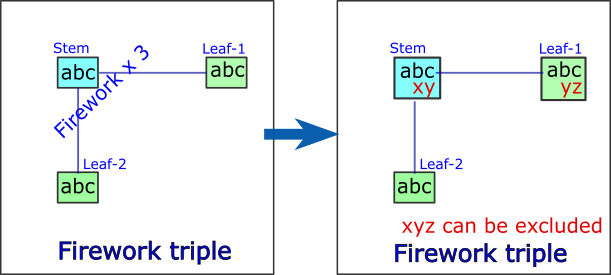
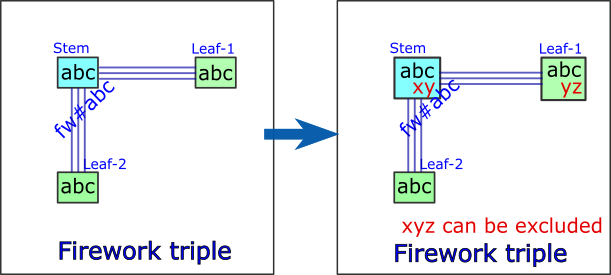
GNPX v5_0428

Changed region(s): [[0.0933, 0.1455, 0.4043, 0.64], [0.653, 0.2618, 0.9018, 0.6109]]

diff --git a/docs/page58.html b/docs/page58.html
@@ -97,29 +97,58 @@
 
 			<!-- ============================================================ -->
 				<H3 id="head_bg_Blue">Fireworks 解析アルゴリズム</H3>
+
+
 				<h4 id="head_bg_LightBlue">(1) Firework triple</h4>
 				<p>
 					<stong>Firework triple</stong>は、3つのfireworkが重なっている状態です(3DFirework,stemとLeaf-1,2が全てのFireworkで一致する)。<br>
 					このとき、stemとLeaf-1,2のセルは3数字で Locked であり、3数字以外の候補は除外できます。
 				</p>
 				<img src="images/img58/image58_20_Firework_triple.png" width="50%" alt="Firework triple"><br><br>
-
-
-				<h4 id="head_bg_LightBlue">(2) Firework triple</h4>
 				<p>
-					2つの firework が重なっている状態を 2DFirework と表記します(stemとLeafが全て一致する)。<br>
+					<img src="images/img58/image58_30_FW_triple.png" width="25%" style="float:left;  margin-right:8px;" alt="SubSetExclusion">
+					<strong>Firework_Triple<br></strong>
+						Stem : r7c3 #12459<br>
+						Leaf:r6c3 r7c4<br>
+					<p class="newLine">1.....5.82.........4..9.7.6..3..2....26.8.9..5....92......73....8....1.....9...42</p>
+				</p>
+
+
+				<h4 id="head_bg_LightBlue">(2) Firework Quadruple</h4>
+				<p>
+					2つの firework が重なっている状態を Fireworkx2 と表記します(stemとLeafが全て一致する)。<br>
 					<stong>Firework quadruple</stong>は、2組の 2DFirework の Leaf-1,2が重なっている状態です(2つのStemは位置が異なる）。<br>
 					これは、4セルに4数字が Locked となっています。従って、4セルの4数字以外の候補は除外できます。
 				</p>
 				<img src="images/img58/image58_21_Firework_quadruple.png" width="50%" alt="Firework_quadruple"><br><br>
+				<p>
+					<img src="images/img58/image58_31_FW_Quadruple.png" width="25%" style="float:left;  margin-right:8px;" alt="SubSetExclusion">
+					<strong>Firework_Quadruple<br></strong>
+						Stem : r5c1#17 r7c8#26<br>
+						Leaf : r5c8#12679  r7c1#12367<br>
+					<p class="newLine">1.....5.82.........4..9.7.6..3..2....26.8.9..5....92......73....8....1.....9...42</p>
+				</p>
+
 
 
 				<h4 id="head_bg_LightBlue">(3) Firework WWing</h4>
 				<p>
-					2DFirework と、2つのbivalue Cell(ALS)が次の図のように配置されているとします。<br>
+					Fireworkx2 と、2つのbivalue Cell(ALS)が次の図のように配置されているとします。<br>
 					この状態は Locked で、交差する位置にある数字要素（次図の"a")は除外できます。<br>
 				</p>
-				<img src="images/img58/image58_22_Firework_WWing.png" width="50%" alt="Firework_WWing"><br><br>
+				<img src="images/img58/image58_22_Firework_WWing.png" width="50%" alt="Firework_WWing"><br>
+				<p>
+					<img src="images/img58/image58_32_FW_WWing.png" width="25%" style="float:left;  margin-right:8px;" alt="SubSetExclusion">
+					<strong>Firework_WWing</strong><br>
+						Stem : r3c3#26<br>
+						Leaf : r3c5#346  r5c3#2679<br>
+						Assist : r4c5#26  r5c9#26<br>
+						Exclude : r5c5#26<br>
+					<p class="newLine">1..89..4.8..21...7...7.59813154.9..8.8.5..41...41.8395..1382.646.89..1...236.18.9</p>
+				</p>
+
+
+
 
 
 				<h4 id="head_bg_LightBlue">(4) Firework LWing</h4>
@@ -130,13 +159,21 @@
 				<img src="images/img58/image58_23_Firework_LWing.png" width="50%" alt="Firework_LWing"><br><br>
 
 
-				<h4 id="head_bg_LightBlue">(5) Firework ALP</h4>
+				<h4 id="head_bg_LightBlue">(5) Firework ALP-s</h4>
 				<p>
-					2DFirework と、1つのBivalueセルが次図のように配置されているとします。<br>
+					Fireworkx2 と、1つのBivalueセルが次図のように配置されているとします。<br>
 					この状態で、Stemセルから Firework の数字要素以外の数字（次図の"z")は除外できます。<br>
 				</p>
-				<img src="images/img58/image58_24_Firework_ALP.png" width="50%" alt="Firework_LWing"><br><br>
-
+				<img src="images/img58/image58_24_Firework_ALP-s.png" width="50%" alt="Firework_LWing"><br><br>
+				<p>
+					<img src="images/img58/image58_34_FW_ALP-s.png" width="25%" style="float:left;  margin-right:8px;" alt="SubSetExclusion">
+					<strong>Firework_ALP-s</strong><br>
+						Stem : r7c3#69<br>
+						Leaf : r5c3#34679 r7c5#16789<br>
+						Assist : r5c5#69<br>
+						Exclude : r7c3#69<br>
+					<p class="newLine">.9.....4.6...2...8...1.4.....2..758..8.5...1...584.3.....4.5...1...3...6.7.....9.</p>
+				</p>
 
 
 

diff --git a/docs/page57.html b/docs/page57.html
@@ -111,29 +111,26 @@
             <p>
                 <img src="images/img57/image57_Subset_20.png" width="30%" style="float:left;  margin-right:8px;" alt="SubSetExclusion">
                 <strong>SubsetExclusion<br></strong>
-				Stem: r7c36 #23457<br>
-				Leaf: Cell r7c8 #23<br>
-				&nbsp;&nbsp;&nbsp;&nbsp;&nbsp;&nbsp;&nbsp;&nbsp;Cell r7c4 #27<br>
-				<p class="newLine"></p>81..7.69.4.639851.5.9.2.4.87.8..9....9..3..8....8..9.41...6.8.9.8..4.765.67.8..4.</p>
+					Stem: r14c6 #1679<br>
+					Leaf: Cell r6c6 #17<br>
+					&nbsp;&nbsp;&nbsp;&nbsp;&nbsp;&nbsp;&nbsp;&nbsp;Cell r2c6 #19<br>
+				<p class="newLine"></p>3...4...8..8.6.7...7.382.5...7.3.8.51..8.5..9..5.9.6...2.954.8...4...5..5...1...2</p>
             </p>
 			<p>
                 <img src="images/img57/image57_Subset_21.png" width="30%" style="float:left;  margin-right:8px;" alt="SubSetExclusion">
 				<strong>SubsetExclusion_with_ALS</strong><br>
-				Stem: r3c2 r7c3 #23457<br>
-				Leaf: Cell r1c3 #23<br>
-				&nbsp;&nbsp;&nbsp;&nbsp;&nbsp;&nbsp;&nbsp;&nbsp;ALS r37c8 #237 RCC#27<br>
-				<p class="newLine"></p>81..7.69.4.639851.5.9.2.4.87.8..9....9..3..8....8..9.41...6.8.9.8..4.765.67.8..4.</p>
+					Stem: r1c7 r3c57 #3569<br>
+					Leaf: Cell r3c9 #56<br>
+					&nbsp;&nbsp;&nbsp;&nbsp;&nbsp;&nbsp;&nbsp;&nbsp;ALS r579c7 #3456 RCC#35<br>
+				<p class="newLine"></p>1.2.7...4..9...2...784.2.1.2.3.5.7..8..7.9..37.6.4.1...2.687.91..1...8..987.3...2</p>
             </p>
 			<p>
                 <img src="images/img57/image57_Subset_22.png" width="30%" style="float:left;  margin-right:8px;" alt="SubSetExclusion">
-				<strong>SubsetExclusion_with_ALS(overlap)</strong><br>
-					Stem: r4c45 r6c8 #1234567<br>
-					Leaf: Cell r6c5 #15<br>
-					&nbsp;&nbsp;&nbsp;&nbsp;&nbsp;&nbsp;&nbsp;&nbsp;Cell r4c7 #123<br>
-					&nbsp;&nbsp;&nbsp;&nbsp;&nbsp;&nbsp;&nbsp;&nbsp;Cell r4c9 #136<br>
-					&nbsp;&nbsp;&nbsp;&nbsp;&nbsp;&nbsp;&nbsp;&nbsp;Cell r4c8 #235<br>
-					&nbsp;&nbsp;&nbsp;&nbsp;&nbsp;&nbsp;&nbsp;&nbsp;ALS r4c79 r5c7 #1236 RCC#36<br>
-				<p class="newLine"></p>81..7.69.4.639851.5.9.2.4.87.8..9....9..3..8....8..9.41...6.8.9.8..4.765.67.8..4.</p>
+				<strong>em: r7c1 r9c3 #2457</strong><br>
+					Leaf: Cell r7c3 #45<br>
+					&nbsp;&nbsp;&nbsp;&nbsp;&nbsp;&nbsp;&nbsp;&nbsp;ALS r7c39 #245 RCC#24<br>
+					Overlap : r7c3<br>
+				<p class="newLine"></p>712.568.4..6...2.1.8.1.2.6.659.214..8..5.91.6..1.6.5...3.68791...8.1.6..16..9...8</p>
             </p>
 		</section>
 	</article>

diff --git a/docs/page2_v5.html b/docs/page2_v5.html
@@ -146,14 +146,35 @@
 						&nbsp;<a href="page56.html#FC_Null"> (ForceChain_Contradiction) ** ++</a> </td>
 					<td class="table_line"></td>
 				</tr>
+		
+				<tr>
+					<td class="table_line">&nbsp;Subset Exclusin</td>
+					<td class="table_line">
+						&nbsp;<a href="page57.html">Aligned Pair Exclusion</a> <br>
+						&nbsp;<a href="page57.html">Aligned Triple Exclusion</a> <br>
+						&nbsp;<a href="page57.html">Subset Exclusion</a> <br></td>
+					<td class="table_line">
+						&nbsp;(ver.5.1 under development)<br>
+						&nbsp;Subset Exclusin
+					</td>
+					<td class="table_line"></td>
+				</tr>
+				
 				<tr>
 					<td class="table_line">&nbsp;....</td>
 					<td class="table_line">
-						&nbsp;<a href="page57.html">Subset Exclusin</a> <br>
-						&nbsp;<a href="page58.html#FC_House">Fireworks</a> <br></td>
-					<td class="table_line">&nbsp;(under development)</td>
+						&nbsp;<a href="page58.html">Firework Triple</a> <br>
+						&nbsp;<a href="page58.html">Firework Quadruple</a> <br>
+						&nbsp;<a href="page58.html">Firework WWing</a> <br>
+						&nbsp;<a href="page58.html">Firework LWing</a> <br>
+						&nbsp;<a href="page58.html">Firework ALP_s</a> <br>
+					</td>
+					<td class="table_line">
+						&nbsp;(ver.5.1 under development)<br>
+						&nbsp;Firework<br>
 					<td class="table_line"></td>
 				</tr>
+
 				<tr>
 					<td class="table_line">&nbsp; GeneralLogic</td>
 					<td class="table_line">
